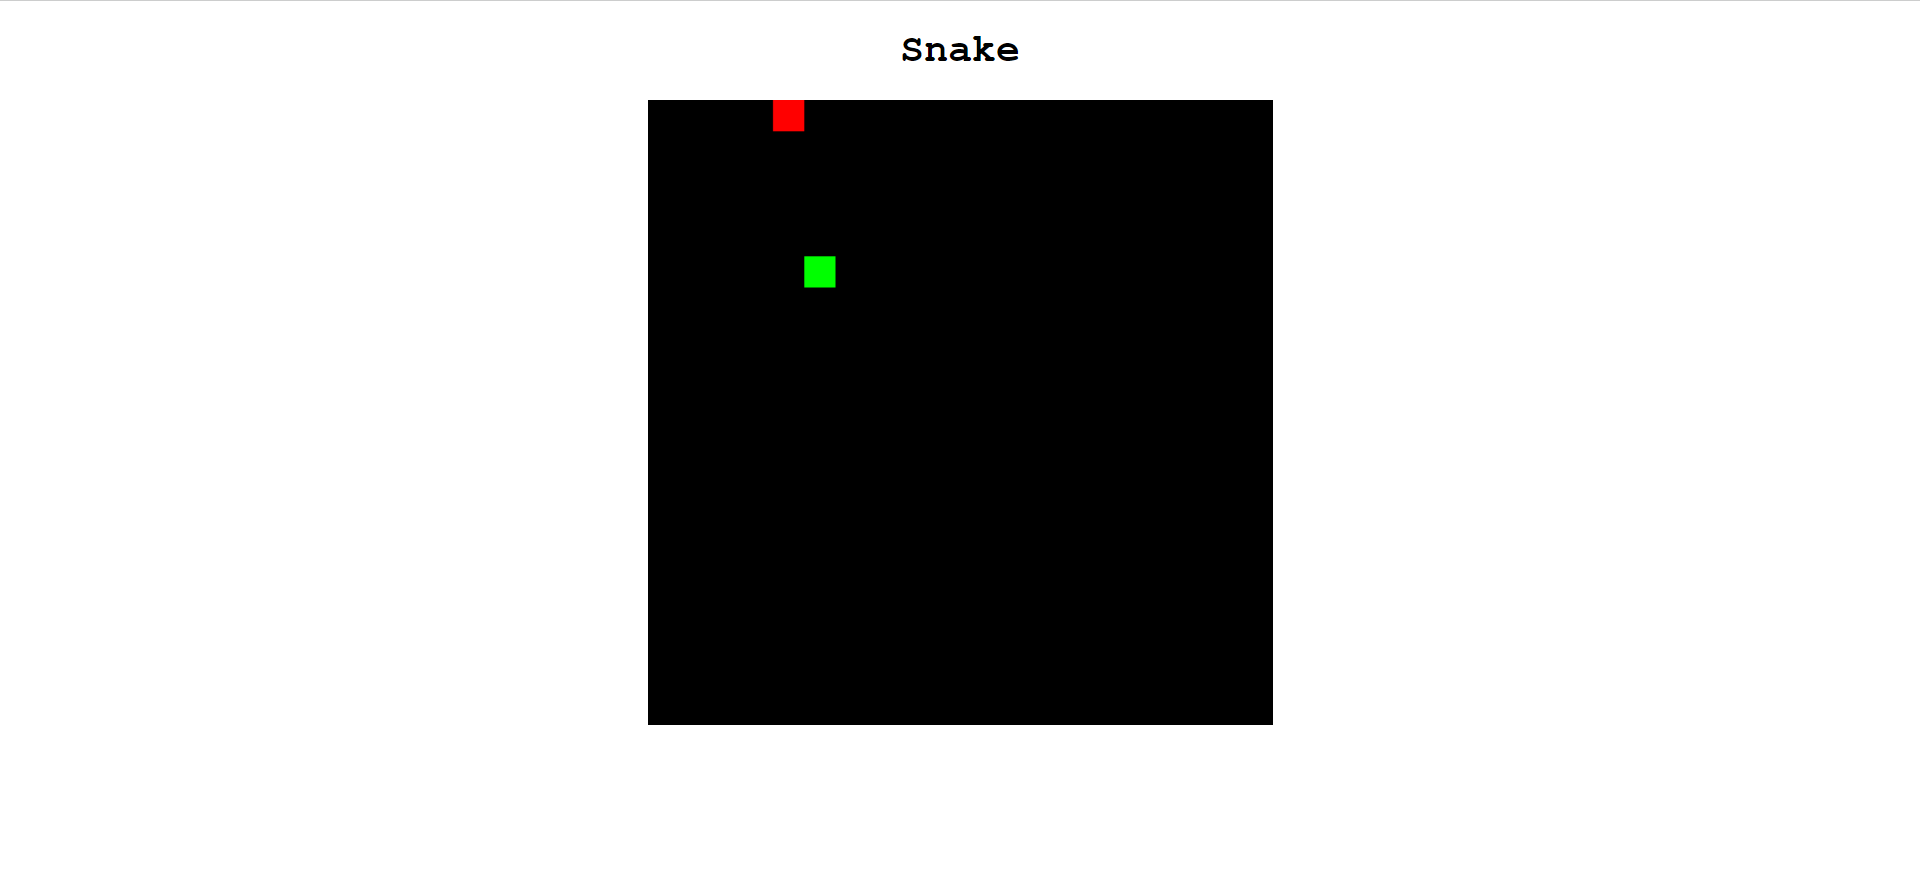
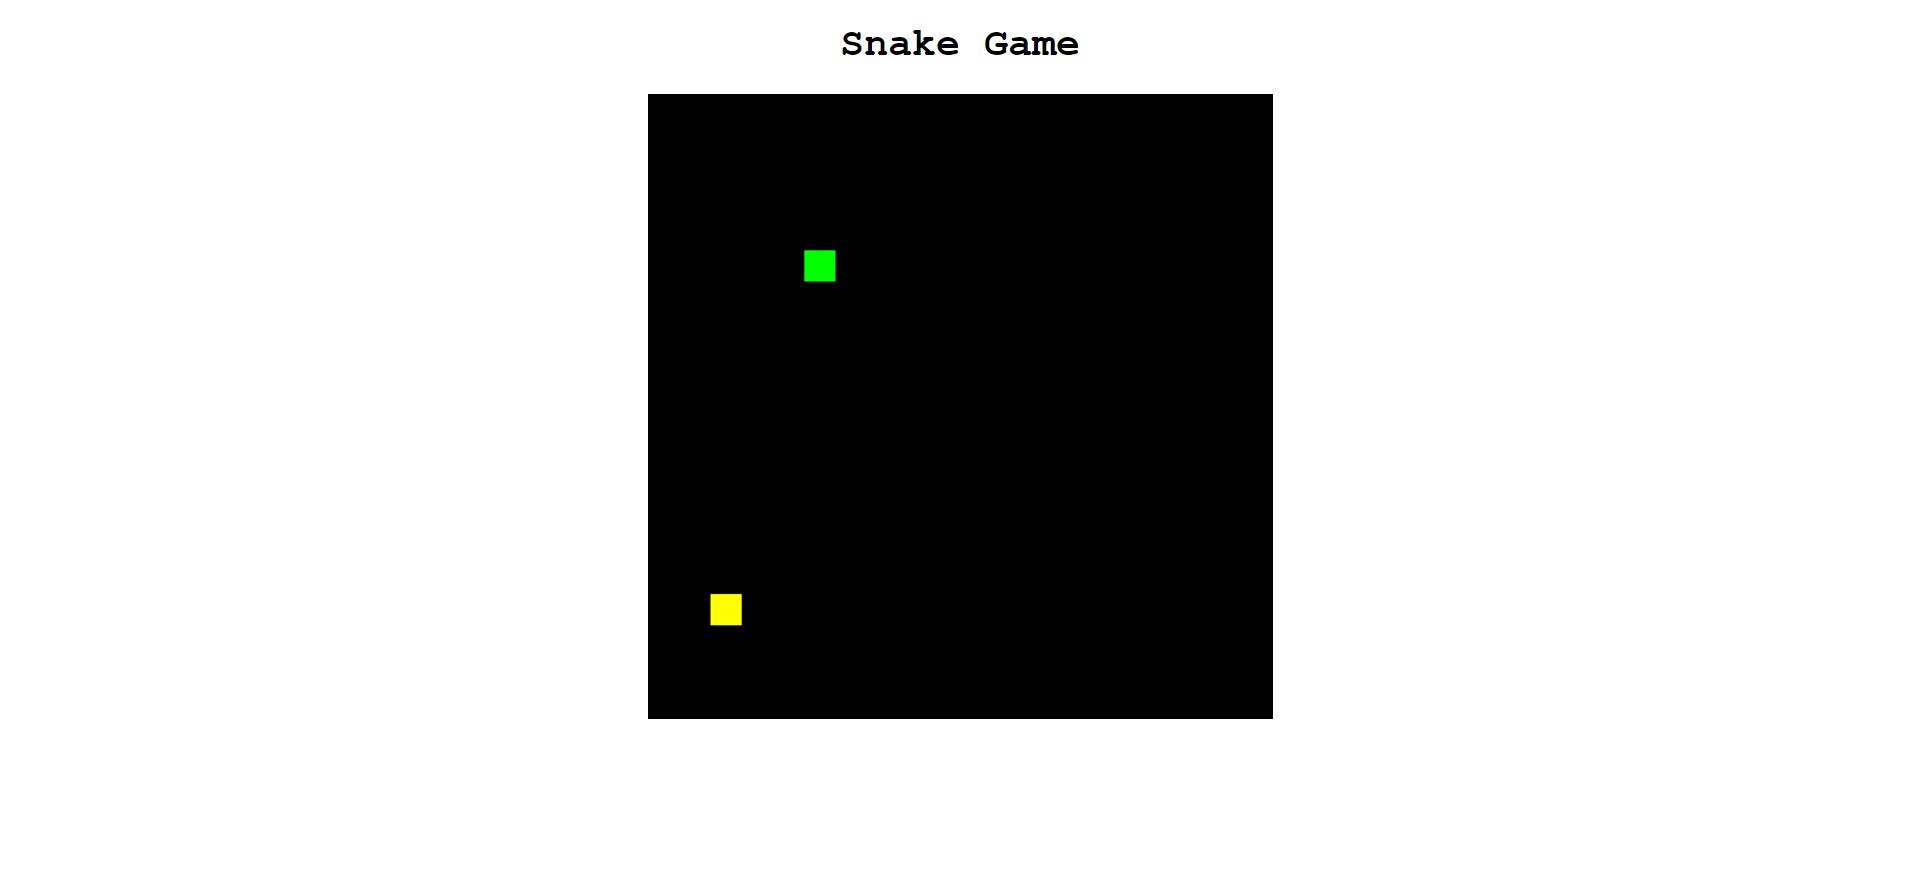
commit 5

Changed region(s): [[0.3438, 0.0309, 0.6562, 0.1545], [0.3438, 0.6796, 0.4062, 0.7105]]

diff --git a/script.js b/script.js
@@ -31,7 +31,7 @@ window.onload = function() {
     placeFood();
     document.addEventListener("keyup", changeDirection);
     // update();
-    setInterval(update, 1000/10); //100 milliseconds
+    setInterval(update, 500/2); 
 }
 
 function update() {
@@ -42,7 +42,7 @@ function update() {
     context.fillStyle="black";
     context.fillRect(0, 0, board.width, board.height);
 
-    context.fillStyle="red";
+    context.fillStyle="yellow";
     context.fillRect(foodX, foodY, blockSize, blockSize);
 
     if (snakeX == foodX && snakeY == foodY) {

diff --git a/index.html b/index.html
@@ -9,7 +9,7 @@
     </head>
 
     <body>
-        <h1>Snake</h1>
+        <h1>Snake Game</h1>
         <canvas id="board"></canvas>
         <h1 id="result" style="color: red;"></h1>
     </body>

diff --git a/README.md b/README.md
@@ -1,3 +1,6 @@
 # Snake-Game
 
 ![Snake Game](game.png)
+** Game Over : **
+![Snake Game Over](game_over.png)
+![Snake Game Over2](game_over2.png)
